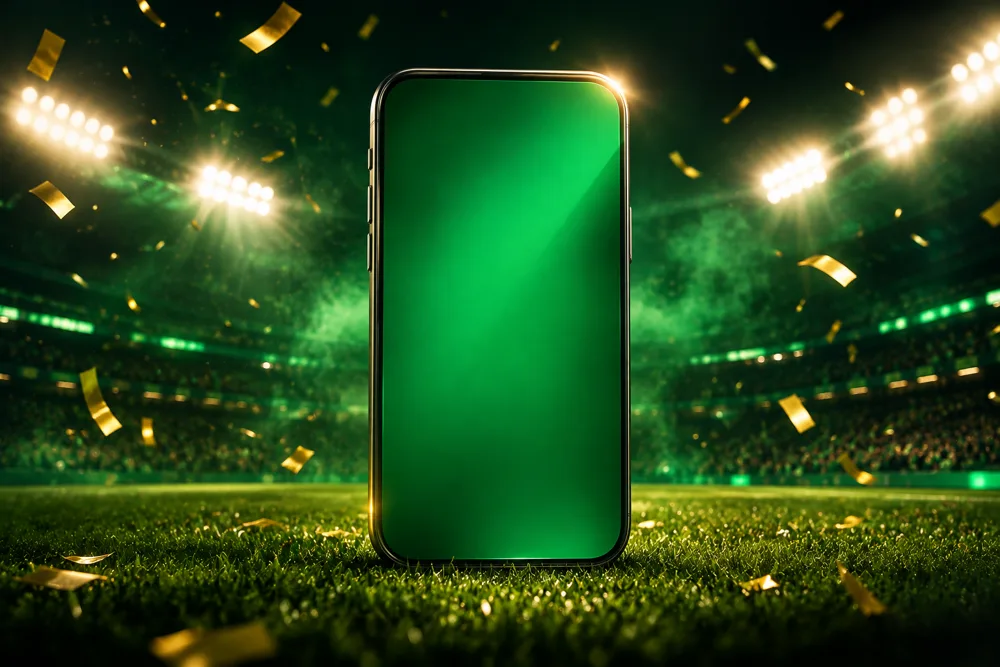
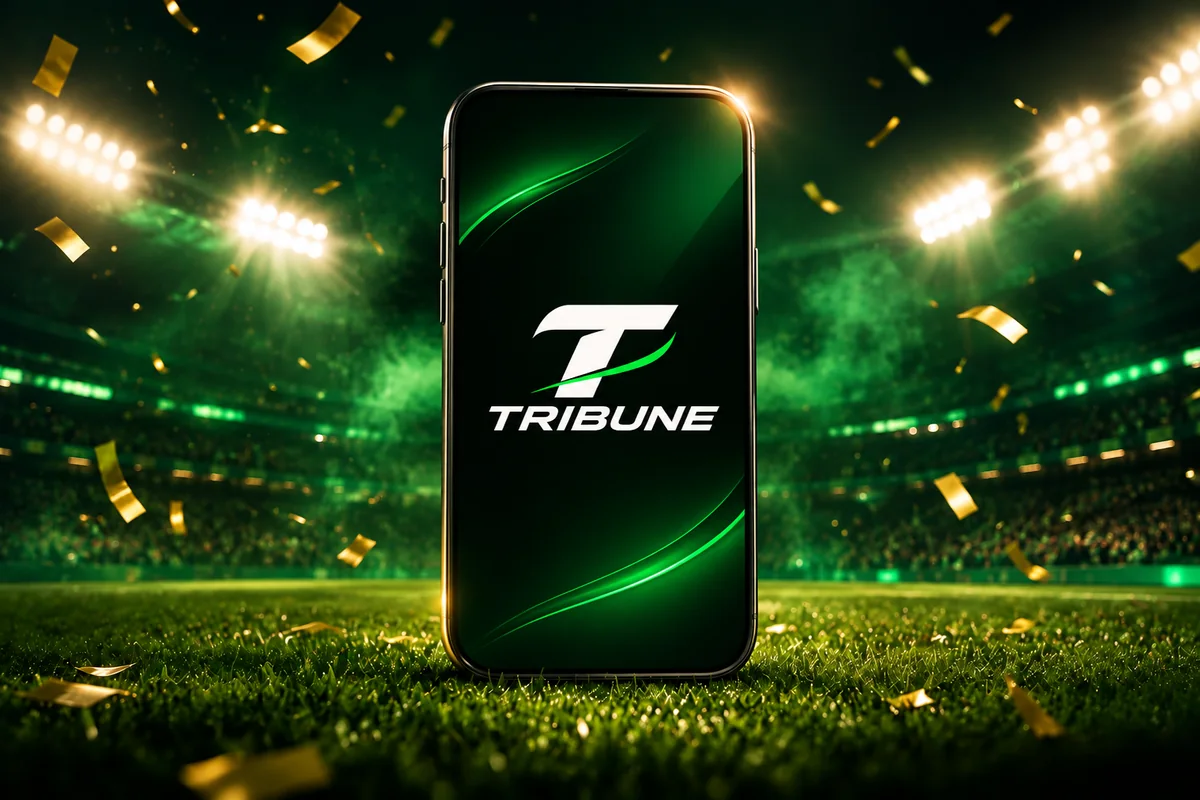
Nouvelle image de la page d'accueil du site et aperçu du lien (og:image)
Claude-Session: https://claude.ai/code/session_01DGEPALM2CzaS6kV533j6gc

diff --git a/index.html b/index.html
@@ -6,6 +6,16 @@
 <title>Tribune — Paris sportifs gratuits</title>
 <meta name="description" content="Paris sportifs 100 % gratuits avec des jetons fictifs : football, rugby, tennis et NBA, du district aux pros. Cartons, corners, hors-jeux, pénalités, doubles fautes, raquettes cassées…">
 <meta name="robots" content="noindex">
+<meta property="og:type" content="website">
+<meta property="og:site_name" content="Tribune">
+<meta property="og:title" content="Tribune · Pronos entre potes, 100 % gratuit">
+<meta property="og:description" content="Foot, rugby, tennis, NBA : pronostique les vrais matchs avec des jetons fictifs, défie tes potes en guilde. Gratuit, 18+.">
+<meta property="og:url" content="https://damateur-a-pro.vercel.app/">
+<meta property="og:image" content="https://damateur-a-pro.vercel.app/og.jpg?v=1">
+<meta property="og:image:width" content="1200">
+<meta property="og:image:height" content="630">
+<meta name="twitter:card" content="summary_large_image">
+<meta name="twitter:image" content="https://damateur-a-pro.vercel.app/og.jpg?v=1">
 <meta name="theme-color" content="#0a110f">
 <meta name="mobile-web-app-capable" content="yes">
 <meta name="apple-mobile-web-app-capable" content="yes">
@@ -18,7 +28,7 @@
 <link rel="preconnect" href="https://fonts.gstatic.com" crossorigin>
 <link rel="preload" as="image" href="logo-tribune.png?v=2">
 <link href="https://fonts.googleapis.com/css2?family=Barlow+Condensed:ital,wght@0,600;0,700;0,800;1,800&family=Barlow:wght@400;500;600;700&display=swap" rel="stylesheet" media="print" onload="this.media='all'">
-<link rel="stylesheet" href="app.css?v=2.88">
+<link rel="stylesheet" href="app.css?v=2.89">
 </head>
 <body data-sp="foot">
 <div id="splash"><img src="logo-tribune.png?v=2" alt="Tribune"><div class="spbar"><i></i></div><small id="spt">Chargement des matchs…</small></div>
@@ -91,7 +101,7 @@
 <div class="toasts" id="toasts" aria-live="polite"></div>
 <div id="rot" aria-live="polite"><svg viewBox="0 0 24 24" fill="none" stroke="currentColor" stroke-width="1.8" stroke-linecap="round"><rect x="6.5" y="2.5" width="11" height="19" rx="2.5"/><path d="M10.5 18.5h3"/></svg><b>Tourne ton téléphone</b><small>Tribune se joue à la verticale.</small></div>
 
-<script src="engine.js?v=2.88"></script>
-<script src="app.js?v=2.88"></script>
+<script src="engine.js?v=2.89"></script>
+<script src="app.js?v=2.89"></script>
 </body>
 </html>

diff --git a/app.js b/app.js
@@ -2777,7 +2777,7 @@ function renderGate(){const lg=new URLSearchParams(location.search).get("guilde"
     <div class="gpgo">📲 <b>Tu as déjà l’app ?</b> Ouvre maintenant <b>Tribune</b> depuis ton écran d’accueil : <b>le ticket s’ouvrira tout seul</b> (dans les 20 minutes), avec le bouton « Je suis ce pari ».</div>
     <p class="note">Pas encore l’app ? Installe-la ci-dessous : le ticket t’attendra.</p>`}catch(e){}},50);
   document.body.classList.add("gated");
-  $("#main")._html=null;$("#main").innerHTML=`<div class="gate"><div class="ghero"><img src="img/gate.webp?v=1" alt=""></div><h1 class="glogo"><img src="logo-tribune.png?v=2" alt="Tribune"></h1><small style="color:var(--mute2)">v${VERSION}</small><p class="gsub">Le jeu se joue <b>uniquement depuis l’app</b> sur ton écran d’accueil. C’est gratuit, sans store, et ça prend 10 secondes.</p>
+  $("#main")._html=null;$("#main").innerHTML=`<div class="gate"><div class="ghero"><img src="img/gate.webp?v=2" alt="Tribune"></div><h1 class="glogo vh"><img src="logo-tribune.png?v=2" alt="Tribune"></h1><small style="color:var(--mute2)">v${VERSION}</small><p class="gsub">Le jeu se joue <b>uniquement depuis l’app</b> sur ton écran d’accueil. C’est gratuit, sans store, et ça prend 10 secondes.</p>
     <div id="gref"></div><div id="gmatch"></div>${pc?`<div id="gpari"><div class="skel" style="height:120px"></div></div>`:""}
     ${lg?`<div class="xcode" style="margin-bottom:12px"><small>Invitation à une guilde : une fois dans l’app, va dans Guildes › Rejoindre et entre ce code</small><b>${esc(lg.toUpperCase().slice(0,8))}</b></div>`:""}
     <div id="ginst">${viewInstall(true)}</div>
@@ -2814,7 +2814,7 @@ async function transferIn(){const code=($("#x-code").value||"").trim(),err=$("#x
 /* ---------- version ----------
    Numéro affiché à côté du titre. version.txt (même numéro) permet à une app restée ouverte
    de voir qu'une mise à jour est sortie et de proposer de recharger. */
-const VERSION="2.88";
+const VERSION="2.89";
 function showVersion(){const v=$("#ver");if(!v)return;v.textContent="v"+VERSION;let last="";try{last=localStorage.getItem("dap.ver")||""}catch(e){}
   if(last&&last!==VERSION){v.classList.add("new");toast(`Mise à jour installée : version ${VERSION}`,"win");setTimeout(()=>v.classList.remove("new"),6000)}
   try{localStorage.setItem("dap.ver",VERSION)}catch(e){}}

diff --git a/sw.js b/sw.js
@@ -1,5 +1,5 @@
 // Service worker : réseau d'abord (toujours revérifié auprès du serveur), cache en secours hors ligne.
-const C="dap-v135",IMG="dap-img-1",SHELL=["./","index.html","manifest.webmanifest","icon-192.png","icon-180.png","icon-512.png","logo-tribune.png","engine.js?v=2.88","app.js?v=2.88","app.css?v=2.88"];
+const C="dap-v136",IMG="dap-img-1",SHELL=["./","index.html","manifest.webmanifest","icon-192.png","icon-180.png","icon-512.png","logo-tribune.png","engine.js?v=2.89","app.js?v=2.89","app.css?v=2.89"];
 self.addEventListener("install",e=>{e.waitUntil(caches.open(C).then(c=>c.addAll(SHELL)).then(()=>self.skipWaiting()))});
 self.addEventListener("activate",e=>{e.waitUntil(caches.keys().then(k=>Promise.all(k.filter(x=>x!==C&&x!==IMG&&!x.startsWith("dap-feed")).map(x=>caches.delete(x)))).then(()=>self.clients.claim()))});
 // logos des équipes, drapeaux et photos de profil : gardés sur le téléphone (plus rapide, moins de données), 500 au plus

diff --git a/app.css b/app.css
@@ -1092,3 +1092,4 @@ a.btn{text-decoration:none;display:flex;align-items:center;justify-content:cente
 .tvc.on{background:#e3262a;border-color:#ff5a5a;color:#fff;animation:tvpulse 1.6s ease-in-out infinite}
 .tvc.big{margin:0;padding:6px 14px;font-size:13.5px}
 @keyframes tvpulse{0%,100%{box-shadow:0 0 0 0 #ff3b3f66}50%{box-shadow:0 0 0 6px #ff3b3f00}}
+.vh{position:absolute!important;width:1px;height:1px;overflow:hidden;clip:rect(0 0 0 0);white-space:nowrap}
